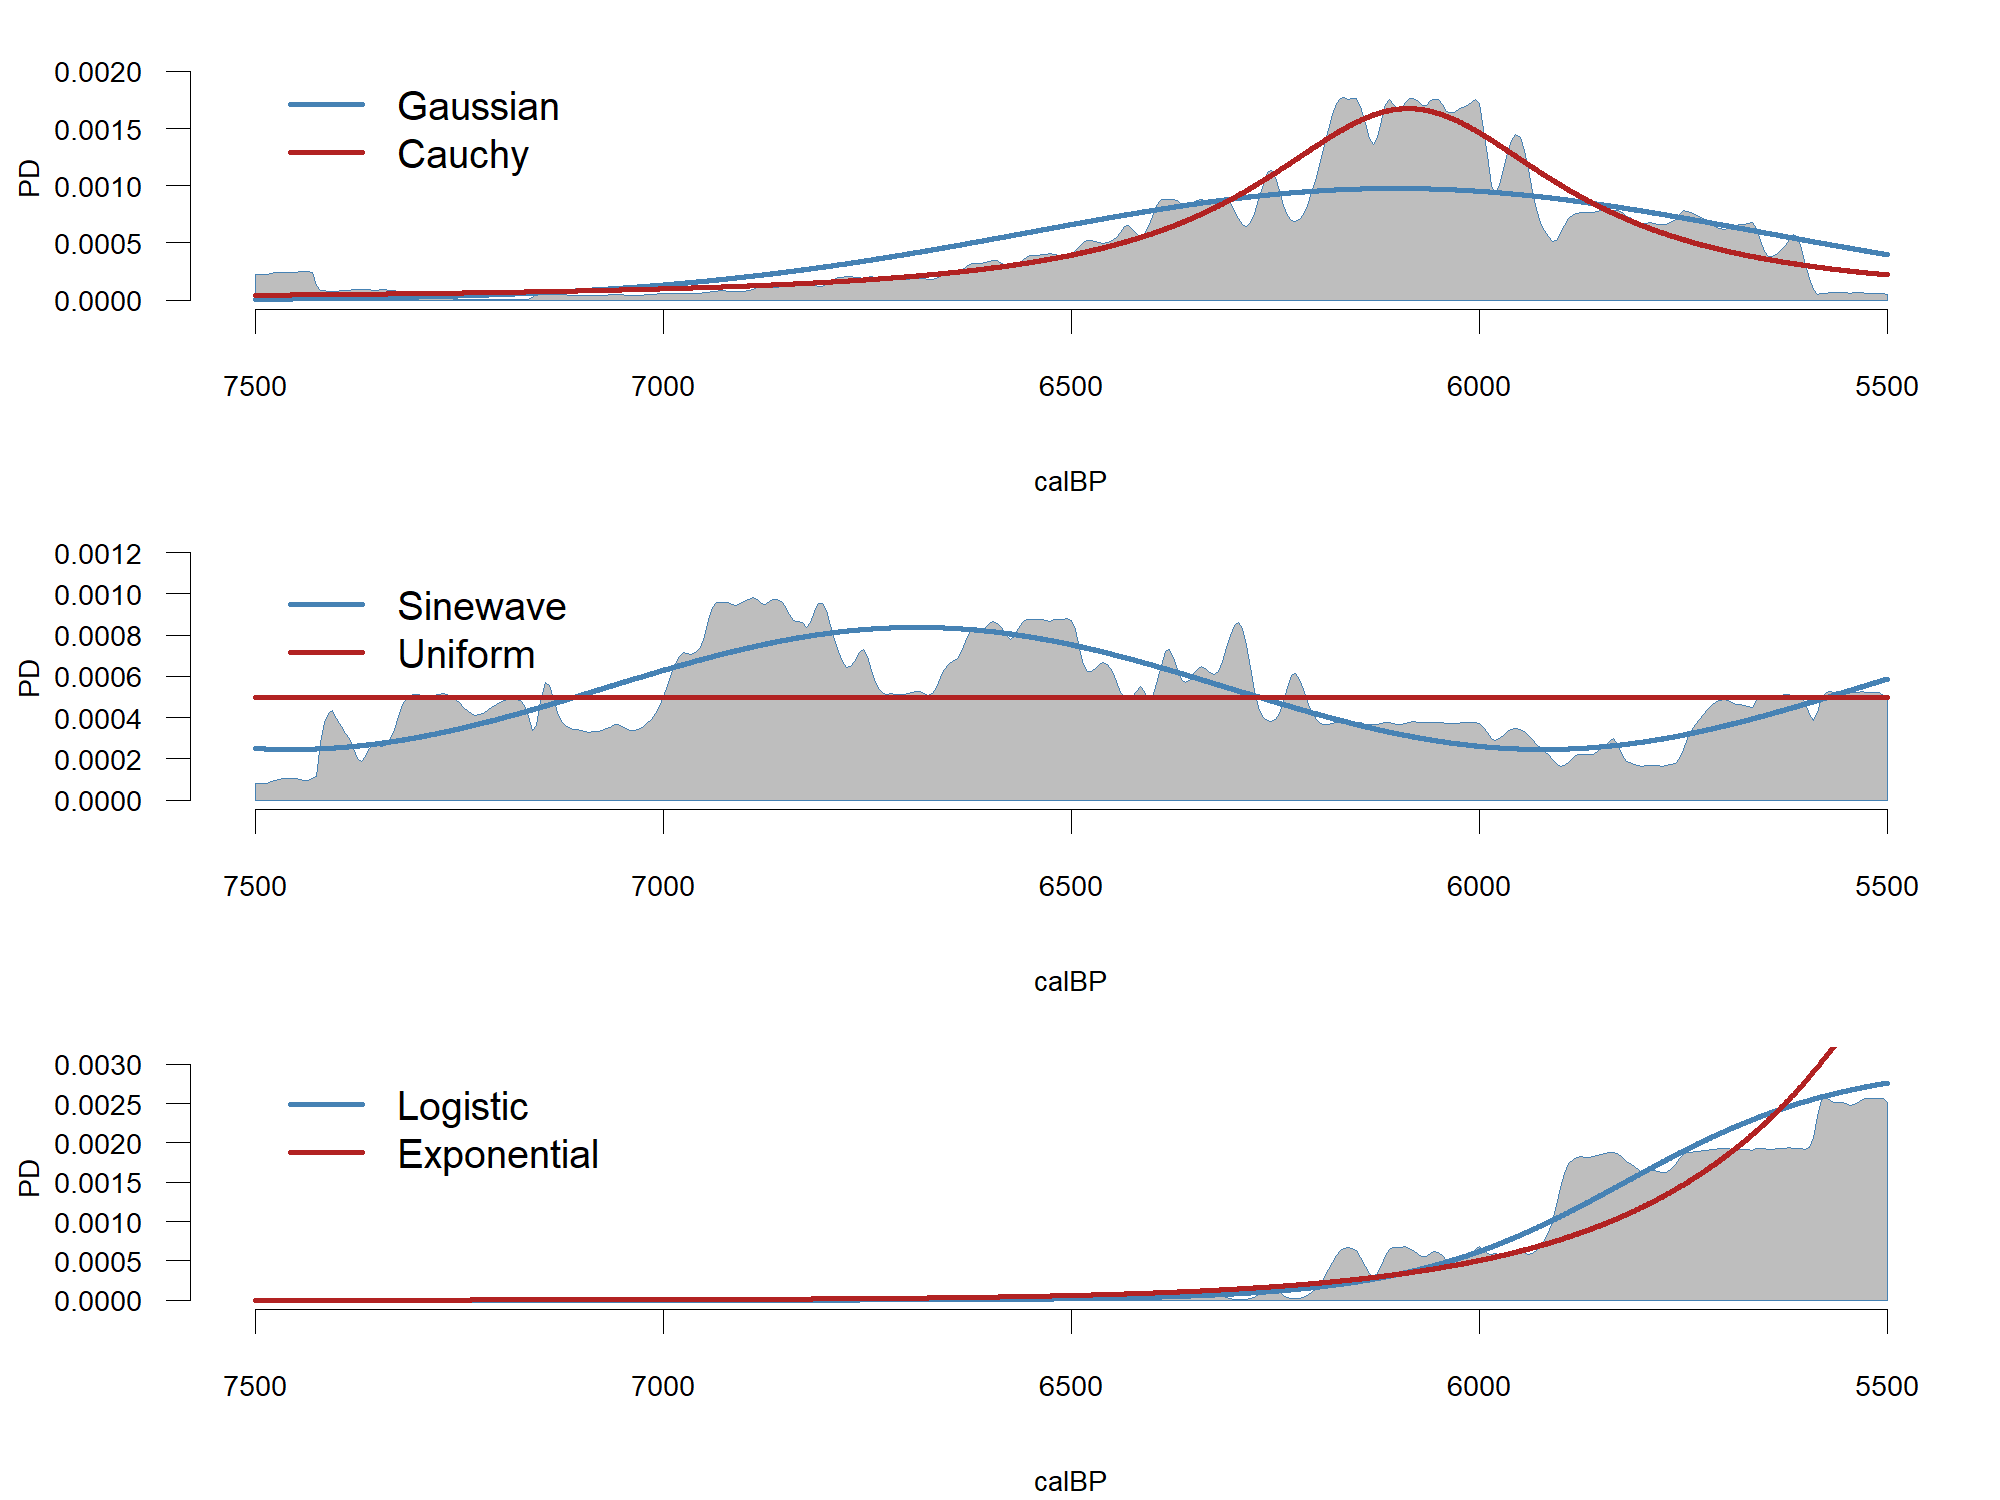
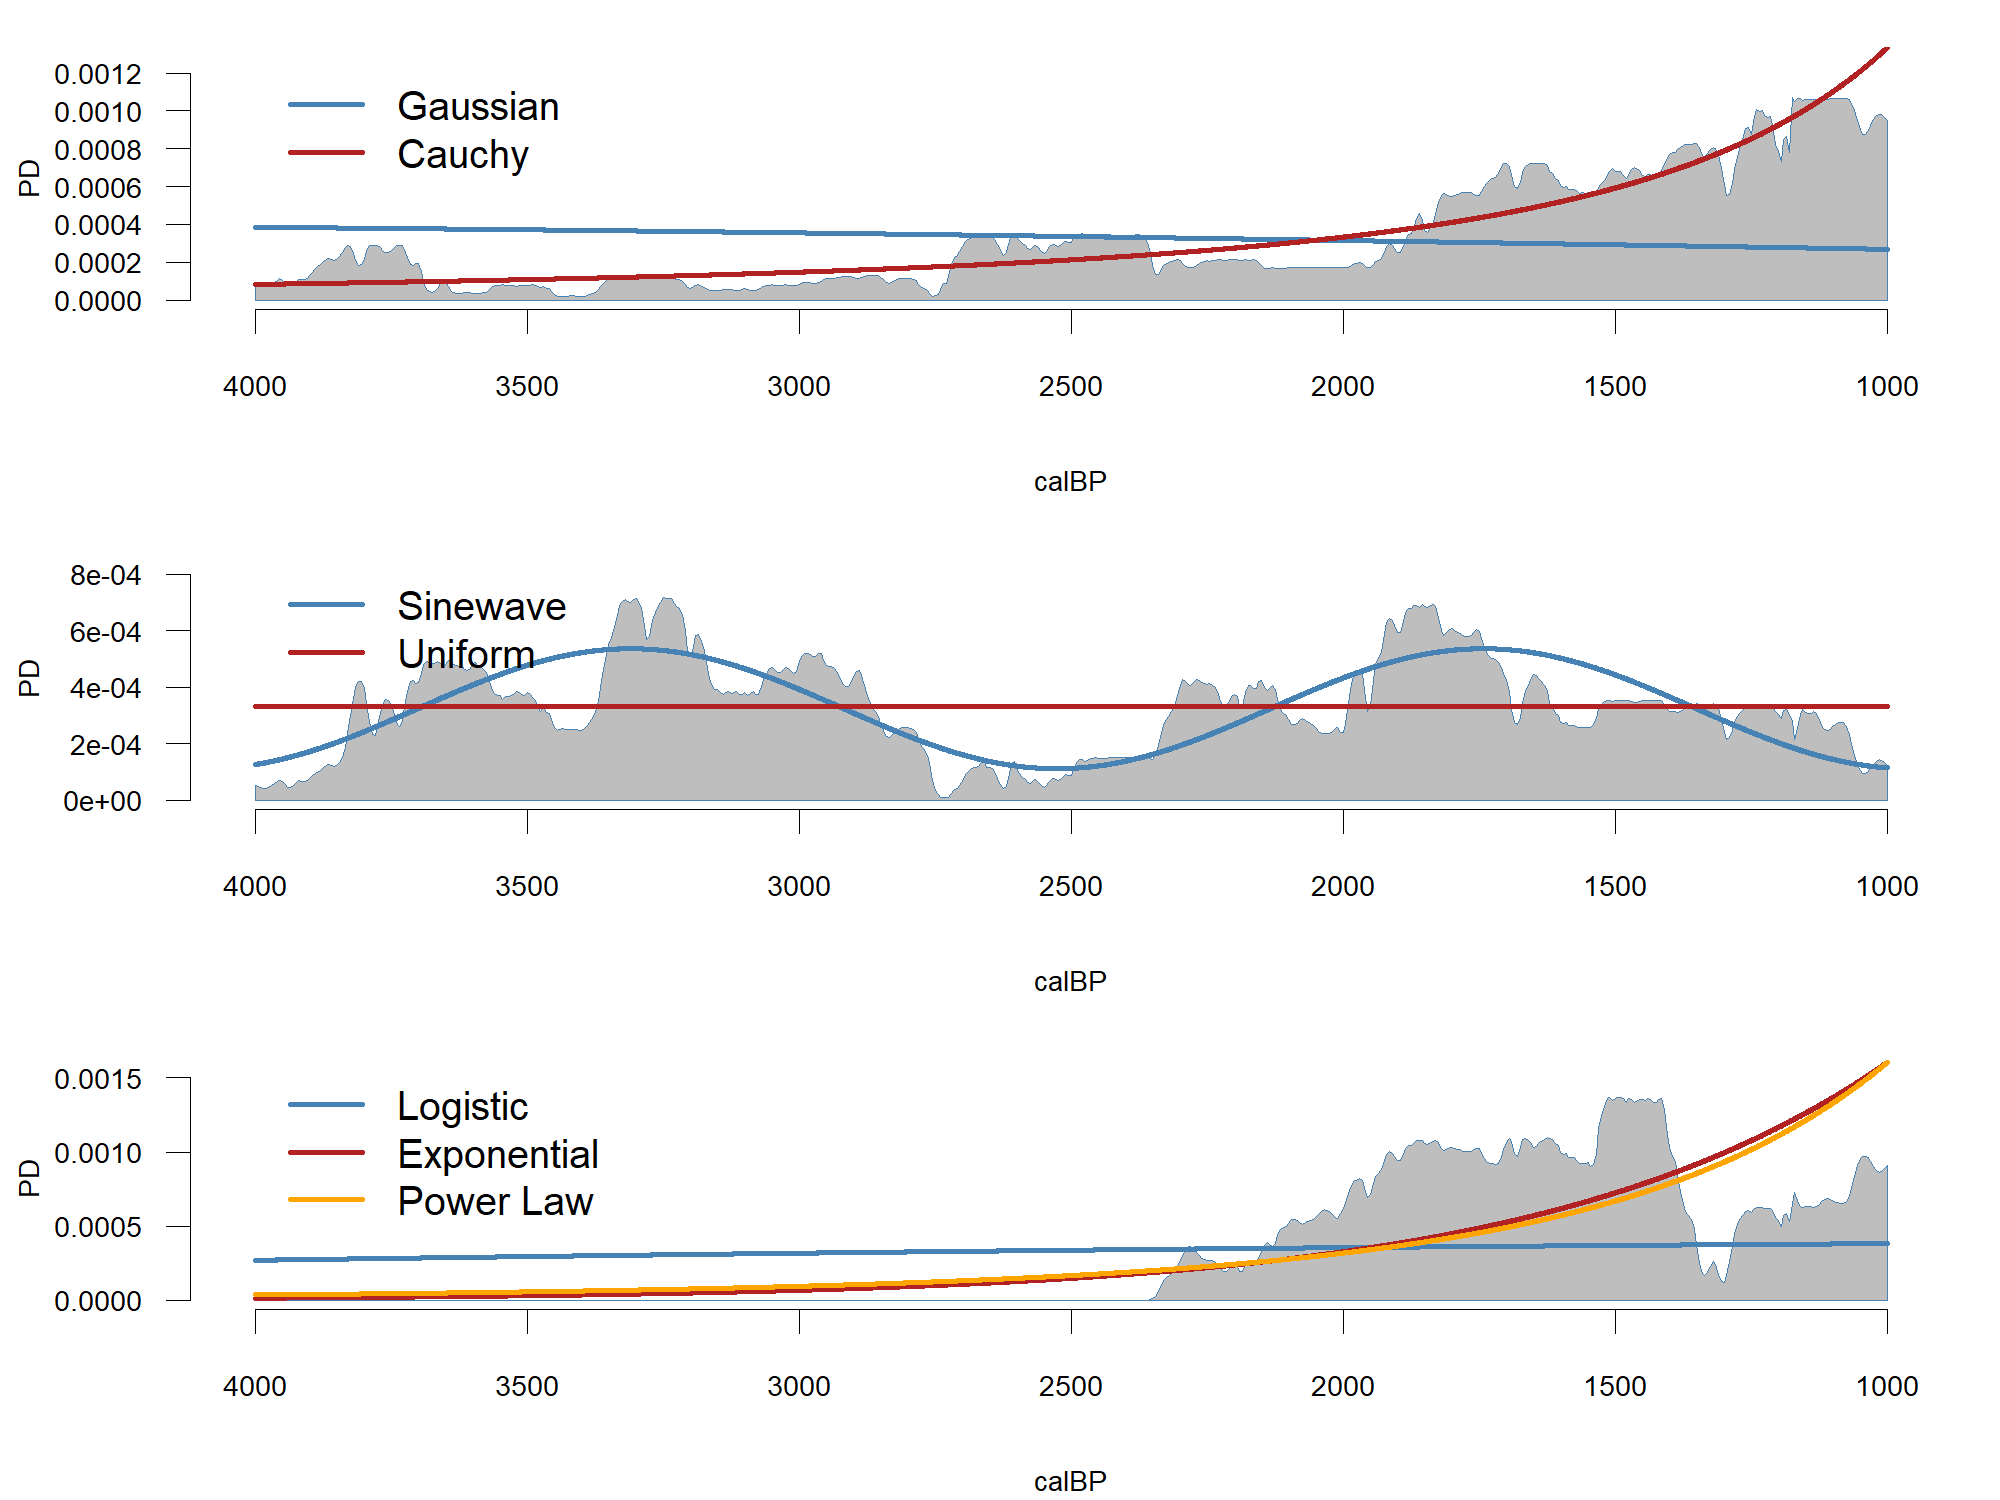
cauchy and power law
error in cauchyPDF formula fixed. New toy data sets 1,2,3 to better compare models

diff --git a/NEWS.md b/NEWS.md
@@ -7,11 +7,18 @@
 
 # ADMUR build history
 
+## 2020-12-16
+
+### Version: 1.0.1.9004
+* Toy data sets 1,2,3 changed to a more recent date range, to better demonstrate the power law model.
+* Power Law model added to guide, and all guide models rerun under 'Other models in ADMUR'
+
 ## 2020-12-15
 
 ### Version: 1.0.1.9003
 * Integrated full formula for truncated Cauchy model into calculations and manual.
 * Aded Power law model
+
 ## 2020-12-14
 
 ### Version: 1.0.1.9002
